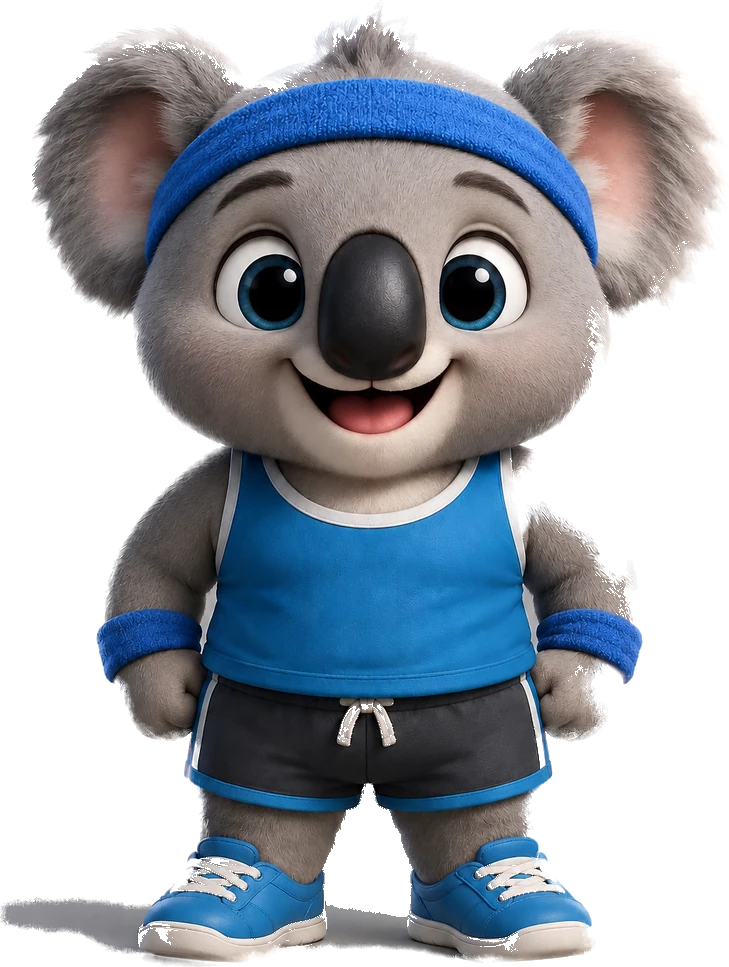
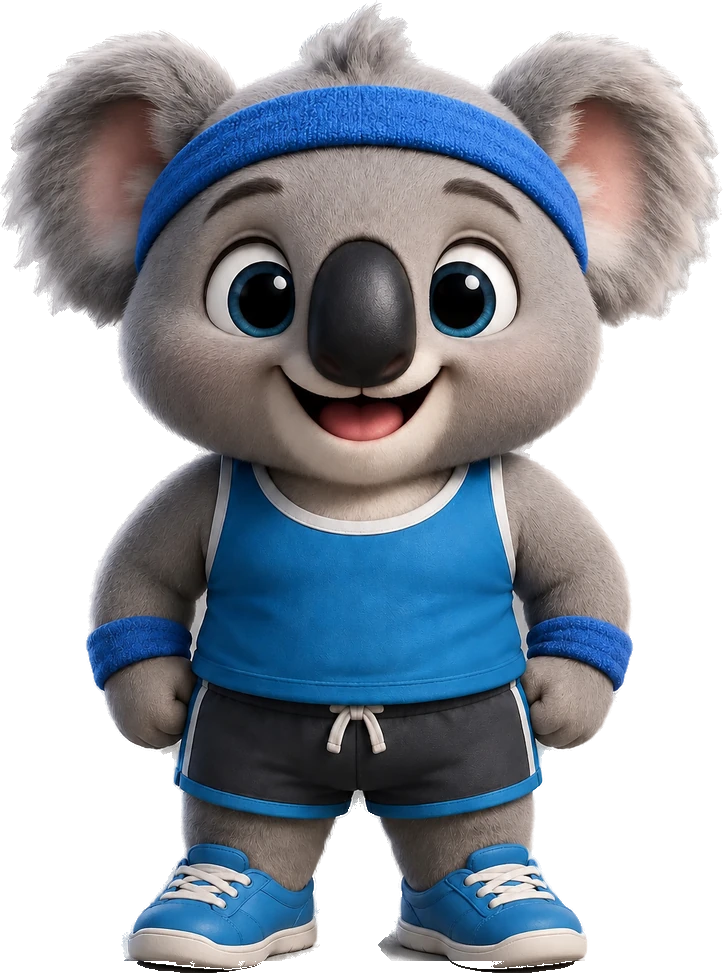
Mascot: clean-cut 8 Koa poses via texture-flood matting
Re-cut all 8 koala pose images (happy, sad, sleep, celebrate, curl,
wave, hat, coat) with a texture-flood background remover that handles
the gradient studio backdrop the prior color-threshold approach could
not: the smooth wall/floor/shadow are flooded in from the border and
stop at the character's crisp outline, with size-limited hole filling
so the shadow trapped between the feet is dropped too. Result is full
natural fur, a solid speckle-free body, and fully transparent
surroundings. Updated per-pose aspect ratios in the image registry.

Changed region(s): [[0.0, 0.0, 1.0, 1.0], [0.2434, 0.1861, 0.3043, 0.2172], [0.3651, 0.6205, 0.3956, 0.6515]]

diff --git a/native/src/lib/mascot-images.ts b/native/src/lib/mascot-images.ts
@@ -54,15 +54,15 @@ const art = (source: number, aspect: number): PoseArt => ({ source, aspect });
 export const MASCOT_IMAGES: Record<string, MascotImageSet> = {
   koa: {
     idle: art(require('../../assets/mascots/koa.png'), 859 / 640),
-    happy: art(require('../../assets/mascots/koa-happy.webp'), 1.326),
-    sad: art(require('../../assets/mascots/koa-sad.webp'), 1.305),
-    tired: art(require('../../assets/mascots/koa-sad.webp'), 1.305),
-    sleep: art(require('../../assets/mascots/koa-sleep.webp'), 1.443),
-    celebrate: art(require('../../assets/mascots/koa-celebrate.webp'), 1.348),
-    curl: art(require('../../assets/mascots/koa-curl.webp'), 1.329),
-    wave: art(require('../../assets/mascots/koa-wave.webp'), 1.324),
-    hat: art(require('../../assets/mascots/koa-hat.webp'), 1.525),
-    coat: art(require('../../assets/mascots/koa-coat.webp'), 1.374),
+    happy: art(require('../../assets/mascots/koa-happy.webp'), 1.346),
+    sad: art(require('../../assets/mascots/koa-sad.webp'), 1.328),
+    tired: art(require('../../assets/mascots/koa-sad.webp'), 1.328),
+    sleep: art(require('../../assets/mascots/koa-sleep.webp'), 1.496),
+    celebrate: art(require('../../assets/mascots/koa-celebrate.webp'), 1.331),
+    curl: art(require('../../assets/mascots/koa-curl.webp'), 1.313),
+    wave: art(require('../../assets/mascots/koa-wave.webp'), 1.345),
+    hat: art(require('../../assets/mascots/koa-hat.webp'), 1.627),
+    coat: art(require('../../assets/mascots/koa-coat.webp'), 1.428),
   },
 };
 
